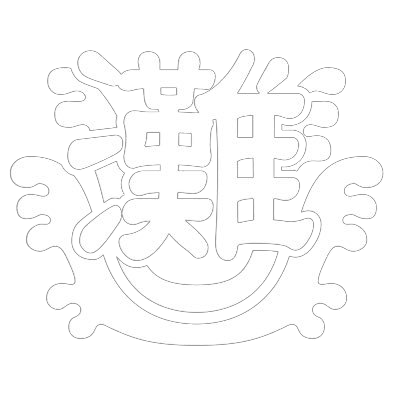
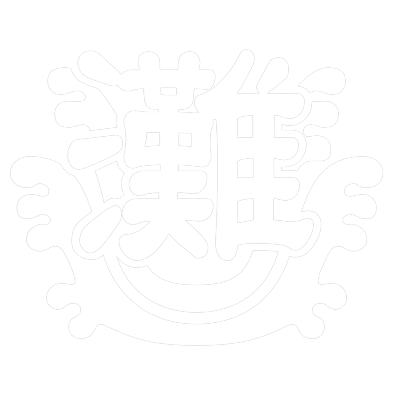
ヘッダー画像差し替え

diff --git a/pages/index.vue b/pages/index.vue
@@ -61,33 +61,6 @@
         ></Block>
       </div>
     </section>
-    <section class="gallery section-wrap">
-      <div class="heading">
-        <h2>ギャラリー<span>Gallery</span></h2>
-        <p>灘校の校舎風景や文化祭・体育祭の様子などを公開します。</p>
-      </div>
-      <div class="blocks">
-        <Block
-          color="#418996"
-          title="校舎"
-          subtitle="School Buildings"
-          link=""
-        ></Block>
-        <Block
-          color="#9DAF37"
-          title="文化祭"
-          subtitle="School Festival"
-          link=""
-        ></Block>
-        <Block
-          color="#37AF7C"
-          title="体育祭"
-          subtitle="Athletic Festival"
-          link=""
-        ></Block>
-        <Block color="#AF8A37" title="その他" subtitle="Others" link=""></Block>
-      </div>
-    </section>
   </div>
 </template>
 <script>
@@ -110,8 +83,28 @@ export default {
   margin-bottom: 0;
   margin-top: 0;
   padding-top: 20px;
-  a{
+  a {
     height: fit-content;
+    color: #fff;
+  }
+
+  .imgwrapper {
+    background: url('@/assets/img/nada-reverse.png');
+    background-size: 15vw 15vw;
+    background-position: center center;
+    background-repeat: no-repeat;
+  }
+  .menu-trigger span {
+    background-color: #fff;
+  }
+  @media screen and (min-width: 960px) {
+    a {
+      .imgwrapper {
+        width: 3.3em;
+        height: 3.3em;
+        background-size: 3.3em 3.3em;
+      }
+    }
   }
 }
 
@@ -234,16 +227,6 @@ export default {
       width: 65%;
       display: grid;
       grid-template-columns: 1fr;
-      margin-left: 5%;
-    }
-  }
-  .gallery {
-    display: flex;
-    padding-left: 5%;
-    .blocks {
-      width: 65%;
-      display: grid;
-      grid-template-columns: 1fr 1fr;
       margin-left: 5%;
     }
   }

diff --git a/components/Header.vue b/components/Header.vue
@@ -7,7 +7,7 @@
         >
       </div>
       <div class="group">
-        <nuxt-link to="/council" @click.native="open = !open"
+        <nuxt-link to="" @click.native="open = !open"
           >Student Council<span>生徒会紹介</span></nuxt-link
         >
         <nuxt-link tag="li" to="/council/structure" @click.native="open = !open"
@@ -52,7 +52,9 @@
     <!-- ヘッダー -->
     <div class="header">
       <nuxt-link to="/">
-        <img src="@/assets/img/nada.png" alt="topimg" />
+        <div class="imgwrapper">
+          <!-- <img src="@/assets/img/nada.png" alt="topimg" /> -->
+        </div>
         <h1>灘校生徒会</h1>
       </nuxt-link>
       <!-- ハンバーガーメニュー -->
@@ -100,7 +102,6 @@ export default {
   display: flex;
   margin: 20px 5%;
   position: relative;
-
   a {
     text-decoration: none;
     display: flex;
@@ -108,11 +109,16 @@ export default {
     z-index: 10;
     filter: drop-shadow(0px 0px 5px #cccccc);
   }
-  img {
+  .imgwrapper {
     width: 15vw;
     height: 15vw;
     margin-right: 10px;
+    background-image: url('@/assets/img/nada.png');
+    background-size: 15vw 15vw;
+    background-position: center center;
+    background-repeat: no-repeat;
   }
+
   h1 {
     font-size: 7vw;
     margin-top: 1.5vw;
@@ -173,9 +179,12 @@ nav.active {
       font-size: 2em;
       margin-top: 0;
     }
-    img {
-      width: 3.3em;
-      height: 3.3em;
+    a {
+      .imgwrapper {
+        width: 3.3em;
+        height: 3.3em;
+        background-size: 3.3em;
+      }
     }
   }
 }

diff --git a/pages/council/organization.vue b/pages/council/organization.vue
@@ -269,7 +269,6 @@
         </Accordion>
       </section>
     </transition>
-    <dl></dl>
   </div>
 </template>
 <script>
